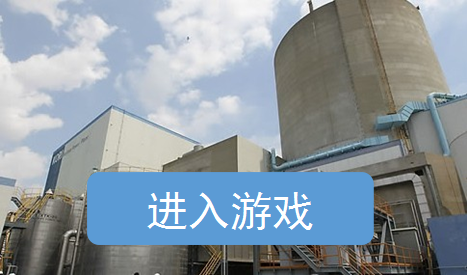
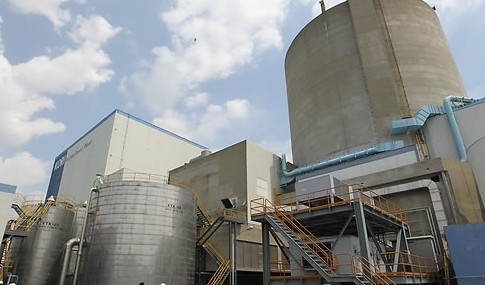
u

Changed region(s): [[0.1799, 0.6109, 0.8094, 0.9018]]

diff --git a/demo/2015-01-07/toll-gate.css b/demo/2015-01-07/toll-gate.css
@@ -18,6 +18,38 @@ body {
     display: none !important;
 }
 
+/* 复用 bootstrap2 的按钮样式 */
+.btn-primary {
+    color: #fff;
+    text-shadow: 0 -1px 0 rgba(0, 0, 0, 0.25);
+    background-color: #006dcc;
+    line-height: 20px;
+    text-align: center;
+    vertical-align: middle;
+    cursor: pointer;
+    background-image: linear-gradient(to bottom, #08c, #04c);
+    background-repeat: repeat-x;
+    border-color: rgba(0, 0, 0, 0.1) rgba(0, 0, 0, 0.1) rgba(0, 0, 0, 0.25);
+    border-bottom-color: #b3b3b3;
+    border-radius: 6px;
+    box-shadow: inset 0 1px 0 rgba(255, 255, 255, 0.2), 0 1px 2px rgba(0, 0, 0, 0.05);
+
+    display: block;
+    margin: 0 auto;
+    width: 200px;
+    height: 26px;
+    font-size: 26px;
+    padding: 14px 0;
+}
+
+.btn-primary:active {
+    background-image: none;
+    outline: 0;
+    color: #fff;
+    background-color: #04c;
+    box-shadow: inset 0 2px 4px rgba(0, 0, 0, 0.15), 0 1px 2px rgba(0, 0, 0, 0.05);
+}
+
 .press-down {
     -webkit-transform: translate3d(0, 10px, 0);
     transform: translate3d(0, 10px, 0);
@@ -60,6 +92,13 @@ body {
     width: 100%;
 }
 
+.section-0-bottom .btn-primary {
+    position: absolute;
+    top: 150px;
+    left: 50%;
+    margin-left: -100px;
+}
+
 .section-iconograph {
     top: -100%;
     background: transparent url("./images/iconograph-bg.png");
@@ -95,15 +134,11 @@ body {
     width: 100%;
     text-align: center;
 }
-
-.section-end .buttons a {
-    border-radius: 4px;
-    background-color: #5B9BD5;
-    color: white;
-    display: inline-block;
-    width: 40%;
-    height: 50px;
-    line-height: 50px;
+.section-end .buttons .btn-primary{
+    font-size: 16px;
+    width: 140px;
+    padding: 6px;
+    height: 24px;
 }
 
 .section-end .buttons a:nth-child(1) {

diff --git a/demo/2015-01-07/toll-gate.html b/demo/2015-01-07/toll-gate.html
@@ -13,6 +13,7 @@
 
 <div class="section section-welcome">
     <img src="./images/backstory.png">
+    <a class="btn-primary">免费体验</a>
 </div>
 
 <div class="section section-0">
@@ -20,6 +21,7 @@
         <img src="./images/section-0-top.png">
     </div>
     <div class="section-0-bottom">
+        <a class="btn-primary">进入游戏</a>
         <img src="./images/section-0-bottom.png">
     </div>
     <div class="copyright">
@@ -96,8 +98,8 @@
     <img src="./images/final-score.jpg">
 
     <div class="buttons">
-        <a>分享到朋友圈</a>
-        <a>更多核电小游戏</a>
+        <a class="btn-primary">分享到朋友圈</a>
+        <a class="btn-primary">更多核电小游戏</a>
     </div>
 </div>
 </body>
